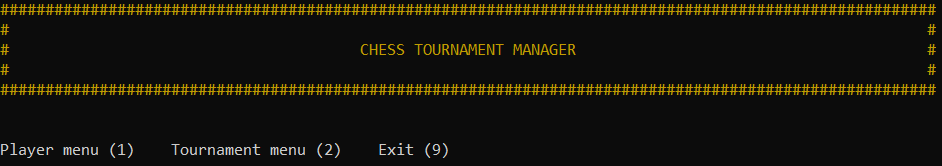
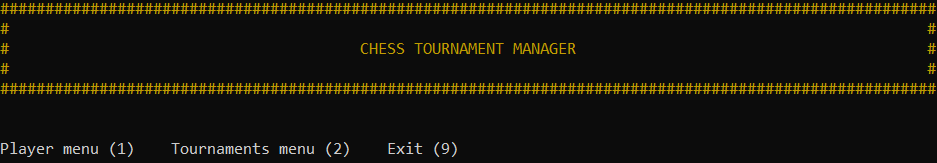
Update imgs, update some display messages

diff --git a/views/interface.py b/views/interface.py
@@ -3,7 +3,7 @@ class InterfaceView:
         "home": {
             "label": (
                 f"Player menu (1){' ' * 4}"
-                f"Tournament menu (2){' ' * 4}"
+                f"Tournaments menu (2){' ' * 4}"
                 "Exit (9)"
             ),
             "key": [
@@ -24,7 +24,7 @@ class InterfaceView:
         "tournament": {
             "label": (
                 f"Create tournament (1){' ' * 4}"
-                f"Select tournaments (2){' ' * 4}"
+                f"Select tournament (2){' ' * 4}"
                 f"Search tournament (3){' ' * 4}"
                 f"Export all tournaments (4){' ' * 4}"
                 f"Delete tournament (6){' ' * 4}"

diff --git a/views/title.py b/views/title.py
@@ -33,6 +33,9 @@ class TitleView(Frame):
     def export_players(self):
         print(self.frame("EXPORT PLAYERS"))
 
+    def tournaments_menu(self):
+        print(self.frame("TOURNAMENTS MENU"))
+
     def tournament_menu(self):
         print(self.frame("TOURNAMENT MENU "))
 
@@ -46,7 +49,7 @@ class TitleView(Frame):
         print(self.frame("SEARCH TOURNAMENT "))
 
     def select_tournament(self):
-        print(self.frame("SELECT TOURNAMENTS"))
+        print(self.frame("SELECT TOURNAMENT "))
 
     def export_tournament(self):
         print(self.frame("EXPORT THIS TOURNAMENT"))

diff --git a/controllers/tournament.py b/controllers/tournament.py
@@ -140,7 +140,7 @@ class TournamentsMenu:
         stay = True
         while stay:
             clear_console()
-            self.title_view.tournament_menu()
+            self.title_view.tournaments_menu()
             response = self.interface_view.display_interface('tournament')
             if response == '1':
                 clear_console()
